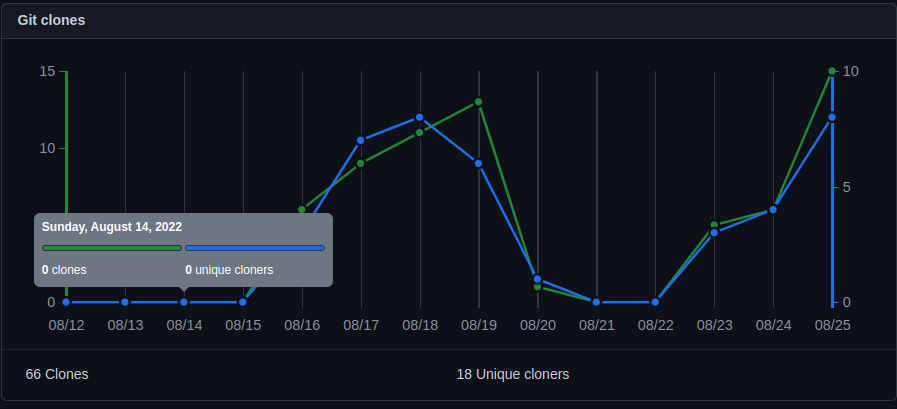
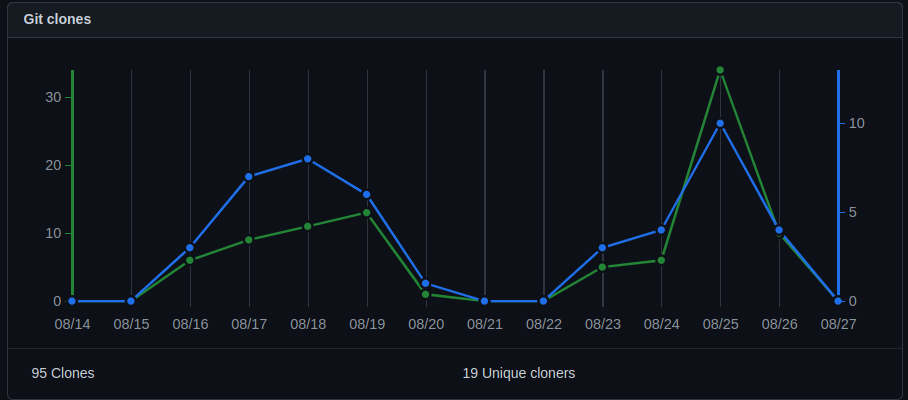
Init

diff --git a/README.md b/README.md
@@ -6,7 +6,7 @@
 🔹OB2: Professor José Roberto, não se esqueça de abrir o arquivo que contém meus pontos extras campeão 👍
 
 <div align="center">OBSERVAÇÃO</div>
-<div>● Como pode ser observado nas imagens abaixo, este repositório contém um alto trafégo de views e clones para um conteúdo de aula específico, e nada comum também para quem tem apenas 6 seguidores (Imagens retiradas no dia 25/08/2022). </div>
+<div>● Como pode ser observado nas imagens abaixo, este repositório contém um alto trafégo de views e clones para um conteúdo de aula específico, e nada comum também para quem tem apenas 6 seguidores (Imagens retiradas no dia 26/08/2022). </div>
 
 <div>● Declaro que todo trabalho contido aqui é de minha autoria SEM NENHUM COMMIT OU PEDAÇO DE CÓDIGO ALHEIO com salvas excessões de fóruns como StackOvewflow cuja documentação será provida de link.
 </div>
